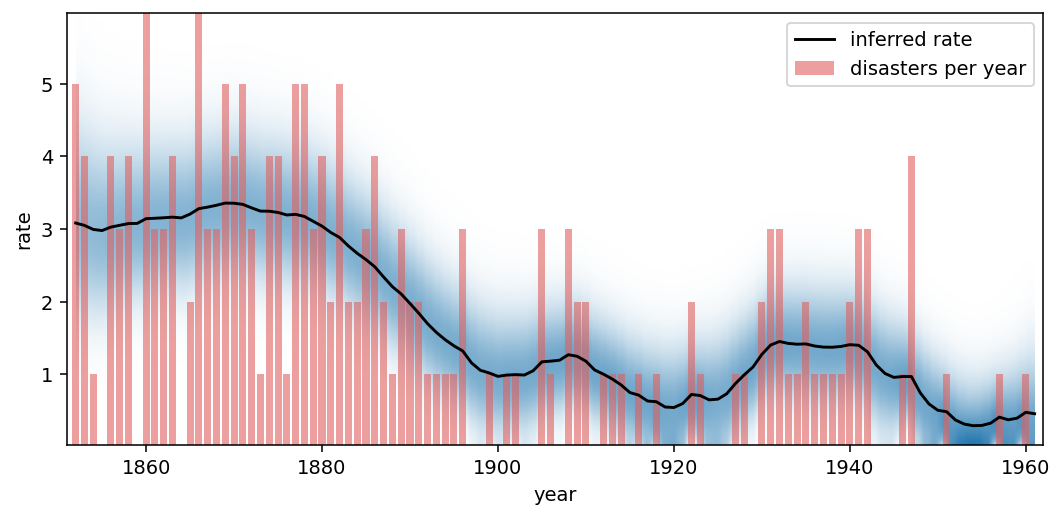
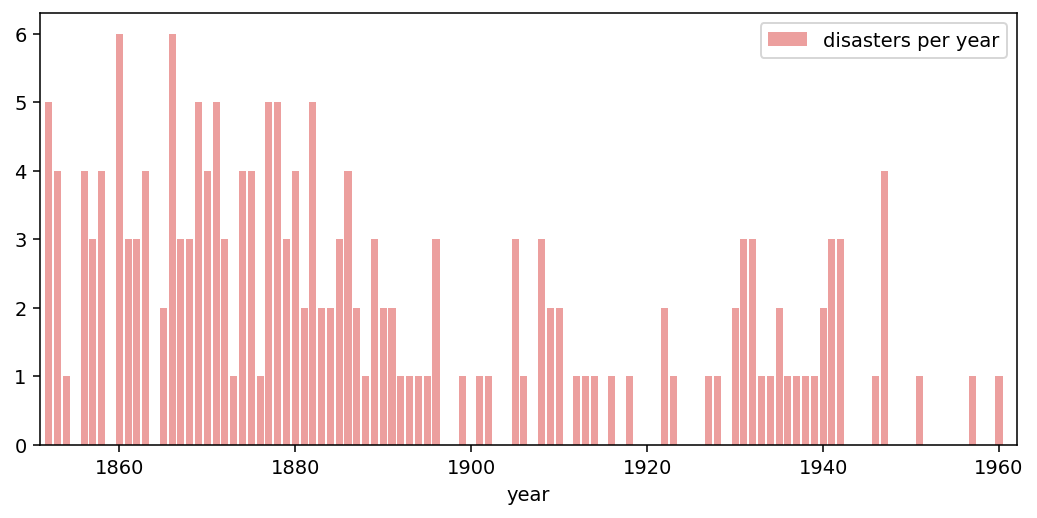
Add Used in production section, reorder page, polish playground
Built for research now precedes the playground, with a new Used in
production section right under it: two orange-accented cards linking
to Barudion (dynamic ETF model portfolios) and the Fortezza Artifact
Multi-Asset Growth Index certificate at Vontobel, with their logos.
Why bayesloop? moves below the playground; nav renamed to Research /
Applications and reordered to match the page flow.

The playground placeholder now shows only the raw disaster counts —
pressing Run reveals the inferred rate — and editor comments use a
readable blue-gray instead of material-darker's near-invisible #616161.

diff --git a/index.html b/index.html
@@ -32,9 +32,10 @@
       <span class="brand-name">bayesloop</span>
     </a>
     <nav class="nav-links">
-      <a href="#features">Features</a>
+      <a href="#science">Research</a>
+      <a href="#production">Applications</a>
       <a href="#playground">Playground</a>
-      <a href="#science">Science</a>
+      <a href="#features">Features</a>
       <a href="http://docs.bayesloop.com" target="_blank" rel="noopener">Docs</a>
       <a class="nav-github" href="https://github.com/christophmark/bayesloop" target="_blank" rel="noopener">
         <svg viewBox="0 0 16 16" width="18" height="18" aria-hidden="true"><path fill="currentColor" d="M8 0C3.58 0 0 3.58 0 8c0 3.54 2.29 6.53 5.47 7.59.4.07.55-.17.55-.38 0-.19-.01-.82-.01-1.49-2.01.37-2.53-.49-2.69-.94-.09-.23-.48-.94-.82-1.13-.28-.15-.68-.52-.01-.53.63-.01 1.08.58 1.23.82.72 1.21 1.87.87 2.33.66.07-.52.28-.87.51-1.07-1.78-.2-3.64-.89-3.64-3.95 0-.87.31-1.59.82-2.15-.08-.2-.36-1.02.08-2.12 0 0 .67-.21 2.2.82a7.5 7.5 0 0 1 4 0c1.53-1.04 2.2-.82 2.2-.82.44 1.1.16 1.92.08 2.12.51.56.82 1.27.82 2.15 0 3.07-1.87 3.75-3.65 3.95.29.25.54.73.54 1.48 0 1.07-.01 1.93-.01 2.2 0 .21.15.46.55.38A8.01 8.01 0 0 0 16 8c0-4.42-3.58-8-8-8z"/></svg>
@@ -99,47 +100,75 @@
     </div>
   </section>
 
-  <!-- ============================= Features ============================= -->
-  <section id="features" class="section">
+  <!-- ============================= Science ============================= -->
+  <section id="science" class="section">
     <div class="container">
-      <h2>Why bayesloop?</h2>
+      <h2>Built for research</h2>
       <p class="section-lead">
-        Real-world systems rarely keep their statistical properties constant. bayesloop embraces that:
-        it treats model parameters as dynamic quantities and infers how they evolve — together with the
-        evidence you need to decide between competing hypotheses.
+        bayesloop has been employed in cancer research (migration paths of invasive tumor cells),
+        financial risk assessment, climate research and accident analysis.
       </p>
-      <div class="feature-grid">
-        <div class="card">
-          <svg class="card-icon" viewBox="0 0 32 32" aria-hidden="true"><path fill="none" stroke="currentColor" stroke-width="2" stroke-linecap="round" d="M2 24 C 8 24 9 8 14 8 C 19 8 18 18 22 18 C 26 18 27 12 30 12"/></svg>
-          <h3>Time-varying parameters</h3>
-          <p>Infer full posterior distributions of model parameters at every single time step — not just point estimates.</p>
-        </div>
-        <div class="card">
-          <svg class="card-icon" viewBox="0 0 32 32" aria-hidden="true"><path fill="none" stroke="currentColor" stroke-width="2" stroke-linecap="round" d="M6 26 V14 M16 26 V6 M26 26 V18"/><path fill="none" stroke="currentColor" stroke-width="2" stroke-linecap="round" d="M3 29 h26"/></svg>
-          <h3>Model selection</h3>
-          <p>Compare hypotheses about parameter dynamics on objective grounds, via the marginal likelihood (model evidence).</p>
-        </div>
-        <div class="card">
-          <svg class="card-icon" viewBox="0 0 32 32" aria-hidden="true"><path fill="none" stroke="currentColor" stroke-width="2" stroke-linecap="round" d="M11 6 L4 16 L11 26 M21 6 L28 16 L21 26"/></svg>
-          <h3>Custom models</h3>
-          <p>Build observation models from SymPy random variables, SciPy distributions or plain NumPy functions.</p>
-        </div>
-        <div class="card">
-          <svg class="card-icon" viewBox="0 0 32 32" aria-hidden="true"><path fill="none" stroke="currentColor" stroke-width="2" stroke-linecap="round" d="M2 24 H12 V8 H30"/><circle cx="12" cy="16" r="2.2" fill="currentColor" stroke="none"/></svg>
-          <h3>Change-point detection</h3>
-          <p>Locate abrupt changes and structural breaks — including full uncertainty about when they happened.</p>
-        </div>
-        <div class="card">
-          <svg class="card-icon" viewBox="0 0 32 32" aria-hidden="true"><path fill="none" stroke="currentColor" stroke-width="2" stroke-linecap="round" d="M4 16 h14 M14 8 l8 8 -8 8"/><circle cx="27" cy="16" r="3" fill="none" stroke="currentColor" stroke-width="2"/></svg>
-          <h3>Online studies</h3>
-          <p>Feed in data point by point and run real-time model selection on streaming data.</p>
-        </div>
-        <div class="card">
-          <svg class="card-icon" viewBox="0 0 32 32" aria-hidden="true"><path fill="none" stroke="currentColor" stroke-width="2" stroke-linecap="round" stroke-dasharray="4 4" d="M2 20 C 8 20 10 10 16 10 C 22 10 24 20 30 20"/></svg>
-          <h3>Missing data</h3>
-          <p>NaN values are handled natively by the inference algorithm — no imputation gymnastics required.</p>
-        </div>
+      <div class="paper-grid">
+        <a class="card paper" href="https://www.nature.com/articles/s41467-018-04241-5" target="_blank" rel="noopener">
+          <p class="paper-journal">Nature Communications 9:1803 (2018)</p>
+          <h3>Bayesian model selection for complex dynamic systems</h3>
+          <p class="paper-authors">Mark C., Metzner C., Lautscham L., Strissel P.L., Strick R., Fabry B.</p>
+        </a>
+        <a class="card paper" href="https://www.nature.com/articles/ncomms8516" target="_blank" rel="noopener">
+          <p class="paper-journal">Nature Communications 6:7516 (2015)</p>
+          <h3>Superstatistical analysis and modelling of heterogeneous random walks</h3>
+          <p class="paper-authors">Metzner C., Mark C., Steinwachs J., Lautscham L., Stadler F., Fabry B.</p>
+        </a>
+        <a class="card paper" href="https://www.pnas.org/doi/abs/10.1073/pnas.2524427123" target="_blank" rel="noopener">
+          <p class="paper-journal">PNAS 123(11):e2524427123 (2026)</p>
+          <h3>Immune cells employ intermittent integrin-mediated traction forces for 3D migration</h3>
+          <p class="paper-authors">Czerwinski T., Bischof L., Böhringer D., Kara S., Strissel P.L., Strick R., Huhn N., Winterl A., Gerum R., Wittmann E., Schneider M., Beckmann M.W., Nusser G., Wiesinger M., Budday S., Lux A., Voskens C., Fabry B., Mark C.</p>
+        </a>
+        <a class="card paper" href="https://www.nature.com/articles/nmeth.3685" target="_blank" rel="noopener">
+          <p class="paper-journal">Nature Methods 13:171–176 (2016)</p>
+          <h3>Three-dimensional force microscopy of cells in biopolymer networks</h3>
+          <p class="paper-authors">Steinwachs J., Metzner C., Skodzek K., Lang N., Thievessen I., Mark C., Münster S., Aifantis K.E., Fabry B.</p>
+        </a>
       </div>
+    </div>
+  </section>
+
+  <!-- ========================= Used in production ========================= -->
+  <section id="production" class="section">
+    <div class="container">
+      <h2>Used in production</h2>
+      <p class="section-lead">
+        The same inference engine runs live in systematic investing — continuously re-estimating
+        how market regimes change over time.
+      </p>
+      <div class="paper-grid">
+        <a class="card paper prod" href="https://barudion.com" target="_blank" rel="noopener">
+          <div class="prod-brand">
+            <svg viewBox="0 0 39.687 6.6146" fill="currentColor" role="img" aria-label="Barudion">
+              <path d="m6.2895 3.7336-6.0833 1.9461 0.59686 0.29146 0.38086-0.17983c0.34371-0.2057 1.0583-0.44083 1.8397-0.67024v0.76429l-0.58291 0.13333v0.26097h1.8159v-0.26097l-0.58291-0.13333v-0.95136c0.39513-0.12436 0.79408-0.2345 1.1968-0.33125 0.29322-0.070874 0.48558-0.10814 0.57671-0.10904l0.37207-0.055811z"/>
+              <path d="m5.0834 1.9497s-0.49458 0.00197-0.49458 0.0079c0 0.10362 0.19782 0.41448 0.19782 0.5181 0 0.077047-0.25454 0.25678-0.42427 0.4023-0.084891 0.10007-0.14856 0.18837-0.14856 0.24136 0 0.20628-0.016871 0.82514-0.016871 1.0314 0 0.00494 1.7543-0.56594 1.7543-0.56594s0.00173-0.2592 0.00173-0.46548c0-0.052945-0.063673-0.14128-0.14856-0.24136-0.16972-0.14551-0.42427-0.32525-0.42427-0.40229 0-0.10362 0.19782-0.41448 0.19782-0.5181 0-0.00592-0.49458-0.0079-0.49458-0.0079z"/>
+              <path d="m1.3768 3.1558s-0.49458 0.00197-0.49458 0.0079c0 0.10362 0.19782 0.41448 0.19782 0.51811 0 0.077047-0.25454 0.25677-0.42427 0.40229-0.08488 0.10007-0.14855 0.18837-0.14855 0.24136 0 0.20628-0.016871 0.82515-0.016871 1.0314 0 0.00494 1.7531-0.5544 1.7531-0.5544s0.00291-0.27075 0.00291-0.47703c0-0.052945-0.063673-0.14128-0.14856-0.24136-0.16972-0.14551-0.42426-0.32525-0.42426-0.40228 0-0.10363 0.19782-0.41449 0.19782-0.51811 0-0.00592-0.49458-0.0079-0.49458-0.0079z"/>
+              <path d="m5.795 0.24546-1.2097 0.27389 0.24701 0.26252-1.3457 0.90951-1.1669-0.57671c-0.64375 0.3947-1.506 0.86209-2.1497 1.2568l0.64337 0.12402c0.37862-0.35305 0.98131-0.69727 1.4717-0.9741l1.1793 0.64234c0.78867-0.63872 0.96336-0.80571 1.634-1.0992l0.19947 0.21187 0.49713-1.0309z"/>
+              <path d="m11.514 2.7752q0-0.41928-0.26247-0.61016-0.26247-0.1909-0.85219-0.1909h-0.70561v1.7282h0.74652q0.55222 0 0.81128-0.21815 0.26247-0.21816 0.26247-0.70902zm0.34428 2.1611q0-0.48063-0.32042-0.70221-0.32042-0.22497-1.026-0.22497h-0.8181v1.9225q0.47041 0.020447 1.0022 0.020447 0.5829 0 0.87264-0.24542 0.28974-0.24884 0.28974-0.77038zm-3.4087 1.3021v-0.18066l0.5863-0.092062v-4.0291l-0.5863-0.088604v-0.18066h2.0896q0.86923 0 1.2715 0.25906 0.40223 0.25566 0.40223 0.81469 0 0.40225-0.24884 0.68516-0.24543 0.28293-0.69198 0.37838 0.61698 0.064798 0.95445 0.36132 0.33747 0.29315 0.33747 0.75674 0 0.65788-0.45677 0.99877-0.45336 0.33747-1.326 0.33747l-1.4589-0.020447z"/>
+              <path d="m14.254 6.0907v0.14781h-1.2299v-0.14781l0.42392-0.075269 1.2746-3.5476h0.52991l1.3248 3.5476 0.47413 0.075269v0.14781h-1.5813v-0.14781l0.50201-0.075269-0.37092-1.0793h-1.4726l-0.37651 1.0793zm0.59964-3.2213-0.64147 1.8156h1.3025zm3.4863 1.7292v1.4168l0.56616 0.075269v0.14782h-1.5479v-0.14782l0.44345-0.075269v-3.2966l-0.47971-0.072504v-0.14782h1.6148q0.70282 0 1.0375 0.23707 0.33467 0.23706 0.33467 0.76138 0 0.37373-0.20359 0.64705-0.2036 0.27053-0.56337 0.37651l1.0124 1.4949 0.4044 0.075269v0.14781h-0.89526l-1.0514-1.6399zm1.414-1.0626q0-0.42671-0.20917-0.60522-0.20638-0.18128-0.72792-0.18128h-0.47691v1.5981h0.49365q0.49923 0 0.7084-0.18407 0.21196-0.18686 0.21196-0.62751zm4.5099-0.81717-0.50201-0.072503v-0.14782h1.2746v0.14782l-0.47971 0.072504v2.234q0 0.67214-0.37093 1.0068-0.36815 0.33467-1.071 0.33467-0.74465 0-1.1156-0.33467-0.36815-0.33747-0.36815-0.95384v-2.287l-0.47971-0.072504v-0.14782h1.4949v0.14782l-0.4797 0.072504v2.2451q0 1.018 0.99009 1.018 0.53548 0 0.81996-0.25379 0.28726-0.25379 0.28726-0.75303zm4.27 1.6232q0-0.7837-0.42393-1.1881-0.42112-0.4044-1.2048-0.4044h-0.50201v3.2268q0.33467 0.022324 0.79485 0.022324 0.6861 0 1.0096-0.40441 0.3263-0.4044 0.3263-1.2522zm-1.4503-1.8435q1.0347 0 1.5339 0.46296 0.49924 0.46019 0.49924 1.3861 0 0.9371-0.4825 1.4196-0.4797 0.48249-1.4363 0.48249l-1.3331-0.011162h-0.4797v-0.14781l0.4797-0.075269v-3.2966l-0.4797-0.072503v-0.14781zm3.5477 3.5169 0.47971 0.075269v0.14782h-1.4949v-0.14782l0.47972-0.075269v-3.2966l-0.47972-0.072504v-0.14782h1.4949v0.14782l-0.47971 0.072504zm1.5619-1.6511q0 0.90084 0.3012 1.3052 0.30122 0.4044 0.94268 0.4044 0.63867 0 0.94267-0.4044 0.30399-0.40441 0.30399-1.3052 0-0.89525-0.30399-1.2885-0.30121-0.39603-0.94267-0.39603-0.64425 0-0.94547 0.39603-0.29842 0.39326-0.29842 1.2885zm-0.58289 0q0-1.9077 1.8268-1.9077 0.90363 0 1.3666 0.48529 0.46296 0.48249 0.46296 1.4224 0 0.95383-0.46854 1.4419-0.46855 0.48806-1.361 0.48806-0.88969 0-1.3582-0.48528-0.46854-0.48806-0.46854-1.4447zm7.1761-1.6455-0.50201-0.072503v-0.14782h1.2746v0.14782l-0.4797 0.072504v3.5197h-0.27053l-2.3065-3.3635v3.1404l0.50201 0.075269v0.14782h-1.2746v-0.14782l0.4797-0.075269v-3.2966l-0.4797-0.072504v-0.14782h1.1323l1.9244 2.7695z"/>
+            </svg>
+          </div>
+          <h3>Dynamic ETF model portfolios</h3>
+          <p class="paper-authors">bayesloop is the statistical backbone of Barudion's adaptive multi-asset
+          model portfolios — investors replicate them in their own brokerage account.</p>
+          <p class="prod-link">barudion.com →</p>
+        </a>
+        <a class="card paper prod" href="https://markets.vontobel.com/de-de/produkte/themen/strategische-zertifikate/DE000VJ1AWY5" target="_blank" rel="noopener">
+          <div class="prod-brand">
+            <img src="img/vontobel-logo.png" alt="Vontobel" height="22">
+          </div>
+          <h3>Fortezza Artifact Multi-Asset Growth Index</h3>
+          <p class="paper-authors">The regime-adaptive strategy behind this actively managed certificate
+          at Vontobel (ISIN&nbsp;DE000VJ1AWY5) runs on bayesloop.</p>
+          <p class="prod-link">markets.vontobel.com →</p>
+        </a>
+      </div>
+      <p class="prod-note">Links are informational, not investment advice. Capital at risk.</p>
     </div>
   </section>
 
@@ -183,8 +212,8 @@
             <div class="output-label">Figures</div>
             <div id="figures" class="figures">
               <div class="figure-placeholder">
-                <img src="img/example.png" alt="Pre-rendered example: inferred coal mining disaster rate over time">
-                <p>Pre-rendered result — press <em>Run</em> to compute it live in your browser.</p>
+                <img src="img/example.png" alt="UK coal mining disasters per year, 1852–1961">
+                <p>Press <em>Run</em> to infer the disaster rate using bayesloop.</p>
               </div>
             </div>
           </div>
@@ -193,35 +222,46 @@
     </div>
   </section>
 
-  <!-- ============================= Science ============================= -->
-  <section id="science" class="section">
+  <!-- ============================= Features ============================= -->
+  <section id="features" class="section">
     <div class="container">
-      <h2>Built for research</h2>
+      <h2>Why bayesloop?</h2>
       <p class="section-lead">
-        bayesloop has been employed in cancer research (migration paths of invasive tumor cells),
-        financial risk assessment, climate research and accident analysis.
+        Real-world systems rarely keep their statistical properties constant. bayesloop embraces that:
+        it treats model parameters as dynamic quantities and infers how they evolve — together with the
+        evidence you need to decide between competing hypotheses.
       </p>
-      <div class="paper-grid">
-        <a class="card paper" href="https://www.nature.com/articles/s41467-018-04241-5" target="_blank" rel="noopener">
-          <p class="paper-journal">Nature Communications 9:1803 (2018)</p>
-          <h3>Bayesian model selection for complex dynamic systems</h3>
-          <p class="paper-authors">Mark C., Metzner C., Lautscham L., Strissel P.L., Strick R., Fabry B.</p>
-        </a>
-        <a class="card paper" href="https://www.nature.com/articles/ncomms8516" target="_blank" rel="noopener">
-          <p class="paper-journal">Nature Communications 6:7516 (2015)</p>
-          <h3>Superstatistical analysis and modelling of heterogeneous random walks</h3>
-          <p class="paper-authors">Metzner C., Mark C., Steinwachs J., Lautscham L., Stadler F., Fabry B.</p>
-        </a>
-        <a class="card paper" href="https://www.pnas.org/doi/abs/10.1073/pnas.2524427123" target="_blank" rel="noopener">
-          <p class="paper-journal">PNAS 123(11):e2524427123 (2026)</p>
-          <h3>Immune cells employ intermittent integrin-mediated traction forces for 3D migration</h3>
-          <p class="paper-authors">Czerwinski T., Bischof L., Böhringer D., Kara S., Strissel P.L., Strick R., Huhn N., Winterl A., Gerum R., Wittmann E., Schneider M., Beckmann M.W., Nusser G., Wiesinger M., Budday S., Lux A., Voskens C., Fabry B., Mark C.</p>
-        </a>
-        <a class="card paper" href="https://www.nature.com/articles/nmeth.3685" target="_blank" rel="noopener">
-          <p class="paper-journal">Nature Methods 13:171–176 (2016)</p>
-          <h3>Three-dimensional force microscopy of cells in biopolymer networks</h3>
-          <p class="paper-authors">Steinwachs J., Metzner C., Skodzek K., Lang N., Thievessen I., Mark C., Münster S., Aifantis K.E., Fabry B.</p>
-        </a>
+      <div class="feature-grid">
+        <div class="card">
+          <svg class="card-icon" viewBox="0 0 32 32" aria-hidden="true"><path fill="none" stroke="currentColor" stroke-width="2" stroke-linecap="round" d="M2 24 C 8 24 9 8 14 8 C 19 8 18 18 22 18 C 26 18 27 12 30 12"/></svg>
+          <h3>Time-varying parameters</h3>
+          <p>Infer full posterior distributions of model parameters at every single time step — not just point estimates.</p>
+        </div>
+        <div class="card">
+          <svg class="card-icon" viewBox="0 0 32 32" aria-hidden="true"><path fill="none" stroke="currentColor" stroke-width="2" stroke-linecap="round" d="M6 26 V14 M16 26 V6 M26 26 V18"/><path fill="none" stroke="currentColor" stroke-width="2" stroke-linecap="round" d="M3 29 h26"/></svg>
+          <h3>Model selection</h3>
+          <p>Compare hypotheses about parameter dynamics on objective grounds, via the marginal likelihood (model evidence).</p>
+        </div>
+        <div class="card">
+          <svg class="card-icon" viewBox="0 0 32 32" aria-hidden="true"><path fill="none" stroke="currentColor" stroke-width="2" stroke-linecap="round" d="M11 6 L4 16 L11 26 M21 6 L28 16 L21 26"/></svg>
+          <h3>Custom models</h3>
+          <p>Build observation models from SymPy random variables, SciPy distributions or plain NumPy functions.</p>
+        </div>
+        <div class="card">
+          <svg class="card-icon" viewBox="0 0 32 32" aria-hidden="true"><path fill="none" stroke="currentColor" stroke-width="2" stroke-linecap="round" d="M2 24 H12 V8 H30"/><circle cx="12" cy="16" r="2.2" fill="currentColor" stroke="none"/></svg>
+          <h3>Change-point detection</h3>
+          <p>Locate abrupt changes and structural breaks — including full uncertainty about when they happened.</p>
+        </div>
+        <div class="card">
+          <svg class="card-icon" viewBox="0 0 32 32" aria-hidden="true"><path fill="none" stroke="currentColor" stroke-width="2" stroke-linecap="round" d="M4 16 h14 M14 8 l8 8 -8 8"/><circle cx="27" cy="16" r="3" fill="none" stroke="currentColor" stroke-width="2"/></svg>
+          <h3>Online studies</h3>
+          <p>Feed in data point by point and run real-time model selection on streaming data.</p>
+        </div>
+        <div class="card">
+          <svg class="card-icon" viewBox="0 0 32 32" aria-hidden="true"><path fill="none" stroke="currentColor" stroke-width="2" stroke-linecap="round" stroke-dasharray="4 4" d="M2 20 C 8 20 10 10 16 10 C 22 10 24 20 30 20"/></svg>
+          <h3>Missing data</h3>
+          <p>NaN values are handled natively by the inference algorithm — no imputation gymnastics required.</p>
+        </div>
       </div>
     </div>
   </section>

diff --git a/css/style.css b/css/style.css
@@ -409,6 +409,9 @@ h2 { font-size: clamp(1.6rem, 3.5vw, 2.2rem); font-weight: 800; letter-spacing: 
 }
 .CodeMirror-gutters { background: #161b22 !important; border-right: 1px solid var(--border) !important; }
 
+/* material-darker's #616161 comments are illegible on this background */
+.cm-s-material-darker span.cm-comment { color: #8aa0b8; }
+
 .toolbar {
   display: flex;
   align-items: center;
@@ -534,6 +537,46 @@ h2 { font-size: clamp(1.6rem, 3.5vw, 2.2rem); font-weight: 800; letter-spacing: 
 .paper h3 { font-size: 1.08rem; margin: 0 0 10px; }
 
 .paper-authors { color: var(--muted); font-size: 0.88rem; margin: 0; }
+
+/* ----------------------------- production ----------------------------- */
+
+/* sits directly under "Built for research" — pull it closer than the
+   default section rhythm, the two tell one story */
+#production { padding-top: 24px; }
+
+.prod {
+  border-color: rgba(240, 150, 70, 0.55);
+  background:
+    linear-gradient(165deg, rgba(240, 150, 70, 0.18), rgba(240, 150, 70, 0.04) 60%),
+    var(--bg-card);
+}
+.prod:hover { border-color: rgba(245, 165, 90, 0.9); }
+
+.prod-brand {
+  height: 22px;
+  margin-bottom: 16px;
+  color: #e6edf6;
+}
+
+.prod-brand svg,
+.prod-brand img {
+  height: 100%;
+  width: auto;
+  display: block;
+}
+
+.prod-link {
+  font-family: var(--font-mono);
+  font-size: 0.78rem;
+  color: #f5a45c;
+  margin: 14px 0 0;
+}
+
+.prod-note {
+  color: var(--muted);
+  font-size: 0.8rem;
+  margin: 20px 0 0;
+}
 
 /* ----------------------------- footer ----------------------------- */
 
